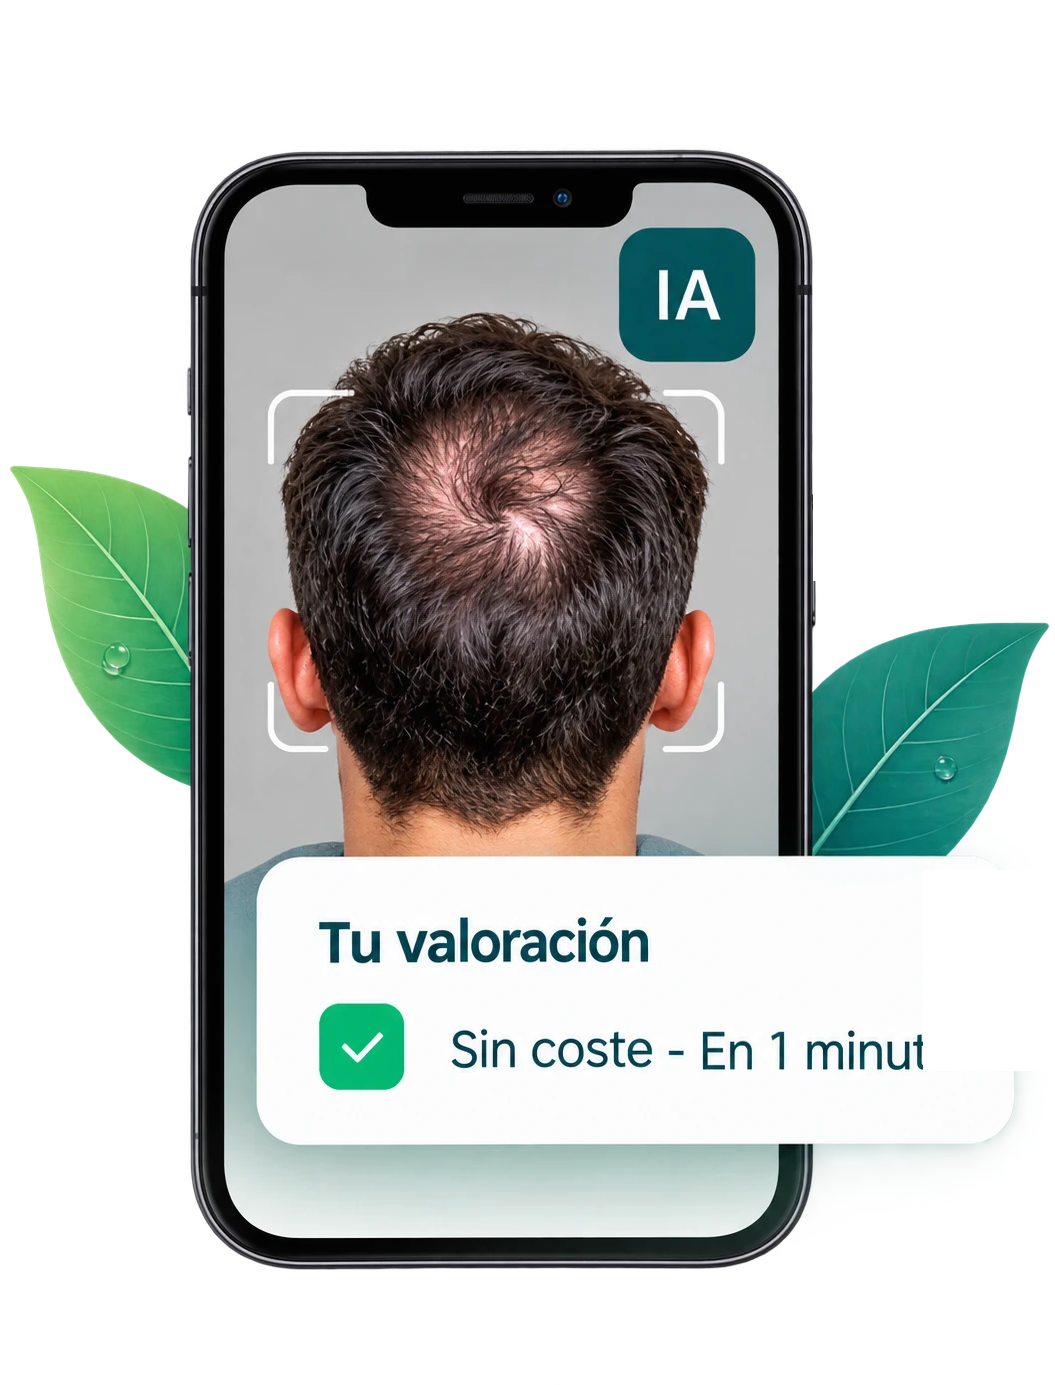
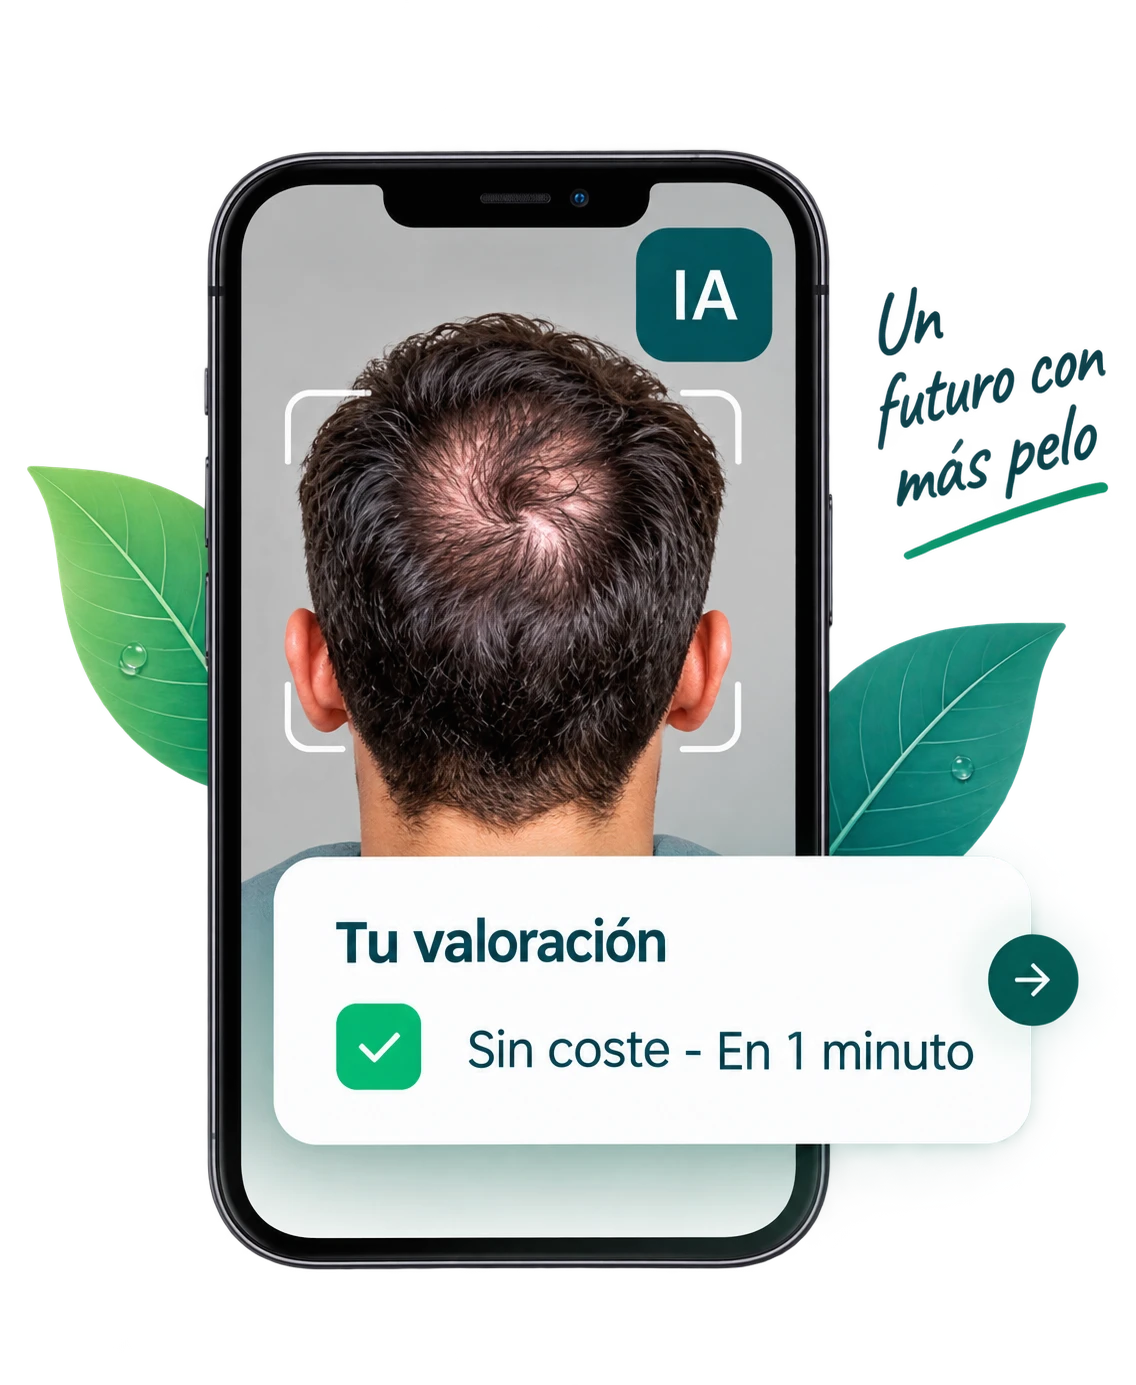
Home: "Así de fácil" con la imagen completa y los iconos definitivos (#39)
- La imagen del móvil pasa a ser la versión completa tal cual
  (incluye "Un futuro con más pelo" y el botón de flecha), un 15%
  más grande, y se ajusta la columna del grid para que no desborde.
- Los 4 iconos de los pasos usan ahora los PNG definitivos (con su
  círculo de fondo ya incluido) en vez de iconos de lucide-react
  metidos a mano en un círculo.

Claude-Session: https://claude.ai/code/session_01LDJe486sczaNLbqym9Vq58

diff --git a/src/app/page.tsx b/src/app/page.tsx
@@ -1,7 +1,6 @@
 import Image from "next/image";
 import Link from "next/link";
 import type { Metadata } from "next";
-import { Camera, Cpu, FileText, Mail } from "lucide-react";
 import { createClient } from "@/lib/supabase/server";
 import { SiteHeader } from "@/components/site-header";
 import { SiteFooter } from "@/components/site-footer";
@@ -19,22 +18,22 @@ export const metadata: Metadata = {
 
 const PASOS = [
   {
-    icono: Camera,
+    icono: "/brand/icono-paso-camara.png",
     titulo: "1. Sube tu foto",
     texto: "Hazte una foto de la zona que te preocupa.",
   },
   {
-    icono: Cpu,
+    icono: "/brand/icono-paso-ia.png",
     titulo: "2. IA analiza",
     texto: "Nuestro sistema de IA evalúa tu caso en segundos.",
   },
   {
-    icono: FileText,
+    icono: "/brand/icono-paso-documento.png",
     titulo: "3. Recibe tu valoración",
     texto: "Te damos un informe gratuito con el diagnóstico.",
   },
   {
-    icono: Mail,
+    icono: "/brand/icono-paso-envelope.png",
     titulo: "4. Solicita presupuestos",
     texto: "Recibe ofertas de clínicas especializadas que se ajustan a tu caso.",
   },
@@ -128,7 +127,7 @@ export default async function HomePage() {
 
           {/* Así de fácil */}
           <div id="como-funciona" className="border-t border-line bg-paper-dim px-6 py-10 sm:px-10">
-            <div className="lg:grid lg:grid-cols-[1fr_320px] lg:items-center lg:gap-8">
+            <div className="lg:grid lg:grid-cols-[1fr_368px] lg:items-center lg:gap-8">
               <div>
                 <h2 className="font-display text-4xl font-extrabold text-teal-dark">
                   Así de fácil
@@ -138,37 +137,38 @@ export default async function HomePage() {
                 </p>
 
                 <div className="mt-10 grid grid-cols-2 gap-x-4 gap-y-10 sm:grid-cols-4">
-                  {PASOS.map((paso, i) => {
-                    const Icono = paso.icono;
-                    return (
-                      <div key={paso.titulo} className="relative">
-                        <div className="flex h-14 w-14 items-center justify-center rounded-full bg-sage/70 text-teal-dark">
-                          <Icono size={24} aria-hidden />
-                        </div>
-                        <h3 className="mt-4 font-display text-base font-bold text-teal-dark">
-                          {paso.titulo}
-                        </h3>
-                        <p className="mt-1 text-sm text-ink-soft">{paso.texto}</p>
-                        {i < PASOS.length - 1 && (
-                          <span
-                            aria-hidden
-                            className="absolute -right-4 top-5 hidden text-xl font-bold text-cyan sm:block"
-                          >
-                            →
-                          </span>
-                        )}
-                      </div>
-                    );
-                  })}
+                  {PASOS.map((paso, i) => (
+                    <div key={paso.titulo} className="relative">
+                      <Image
+                        src={paso.icono}
+                        alt=""
+                        width={56}
+                        height={56}
+                        className="h-14 w-14"
+                      />
+                      <h3 className="mt-4 font-display text-base font-bold text-teal-dark">
+                        {paso.titulo}
+                      </h3>
+                      <p className="mt-1 text-sm text-ink-soft">{paso.texto}</p>
+                      {i < PASOS.length - 1 && (
+                        <span
+                          aria-hidden
+                          className="absolute -right-4 top-5 hidden text-xl font-bold text-cyan sm:block"
+                        >
+                          →
+                        </span>
+                      )}
+                    </div>
+                  ))}
                 </div>
               </div>
 
-              <div className="relative mx-auto mt-12 hidden aspect-[1055/1385] w-full max-w-[320px] lg:mt-0 lg:block">
+              <div className="relative mx-auto mt-12 hidden aspect-[1136/1385] w-full max-w-[368px] lg:mt-0 lg:block">
                 <Image
                   src="/brand/asi-de-facil-phone.png"
                   alt="Análisis capilar con IA en el móvil"
                   fill
-                  sizes="320px"
+                  sizes="368px"
                   className="object-contain"
                 />
               </div>
